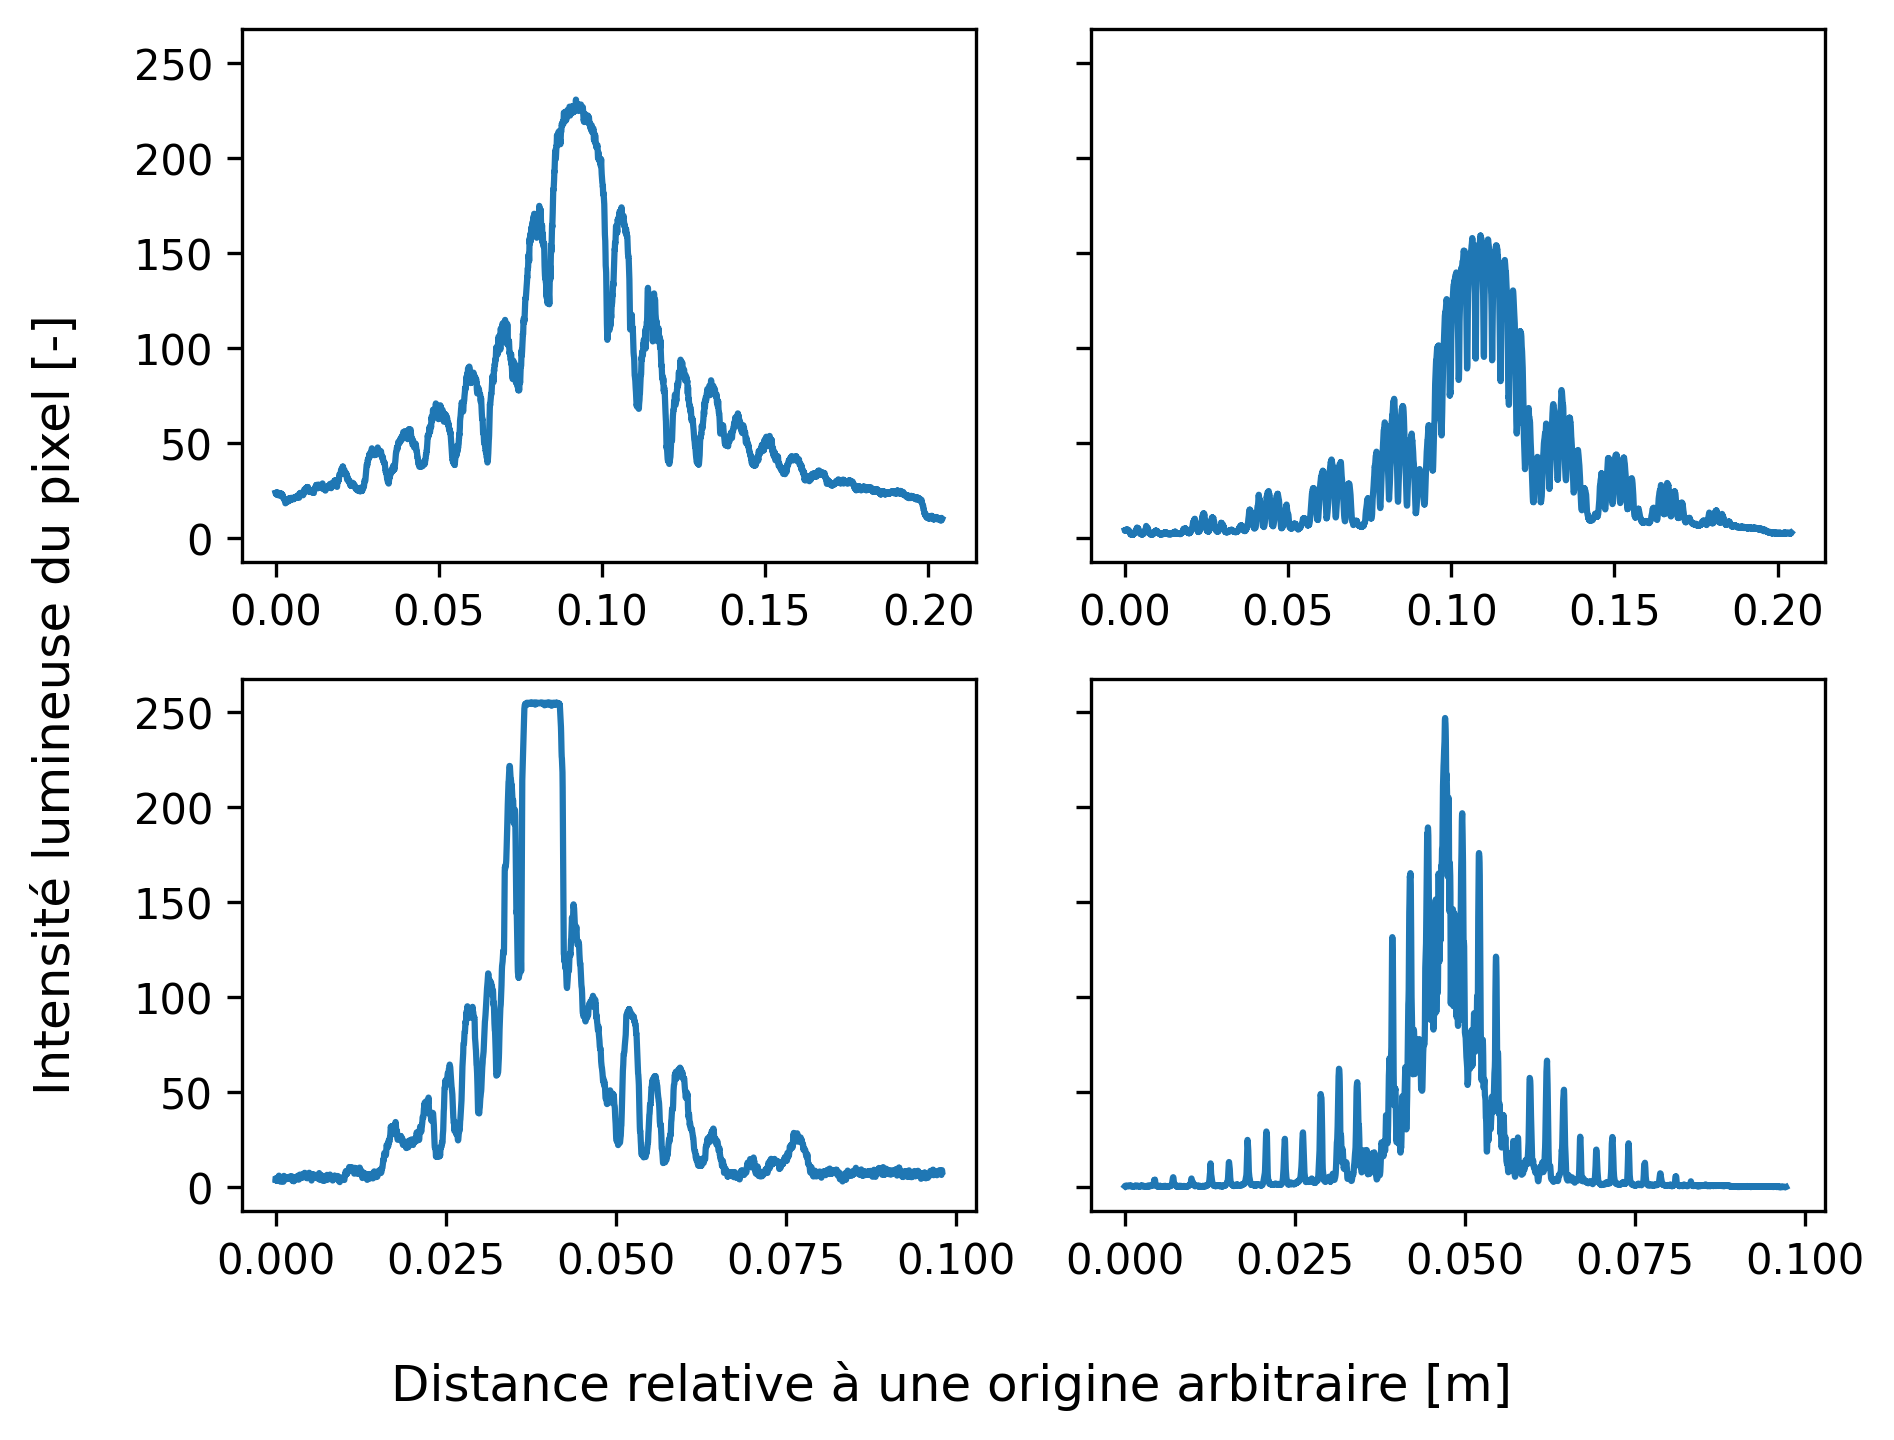
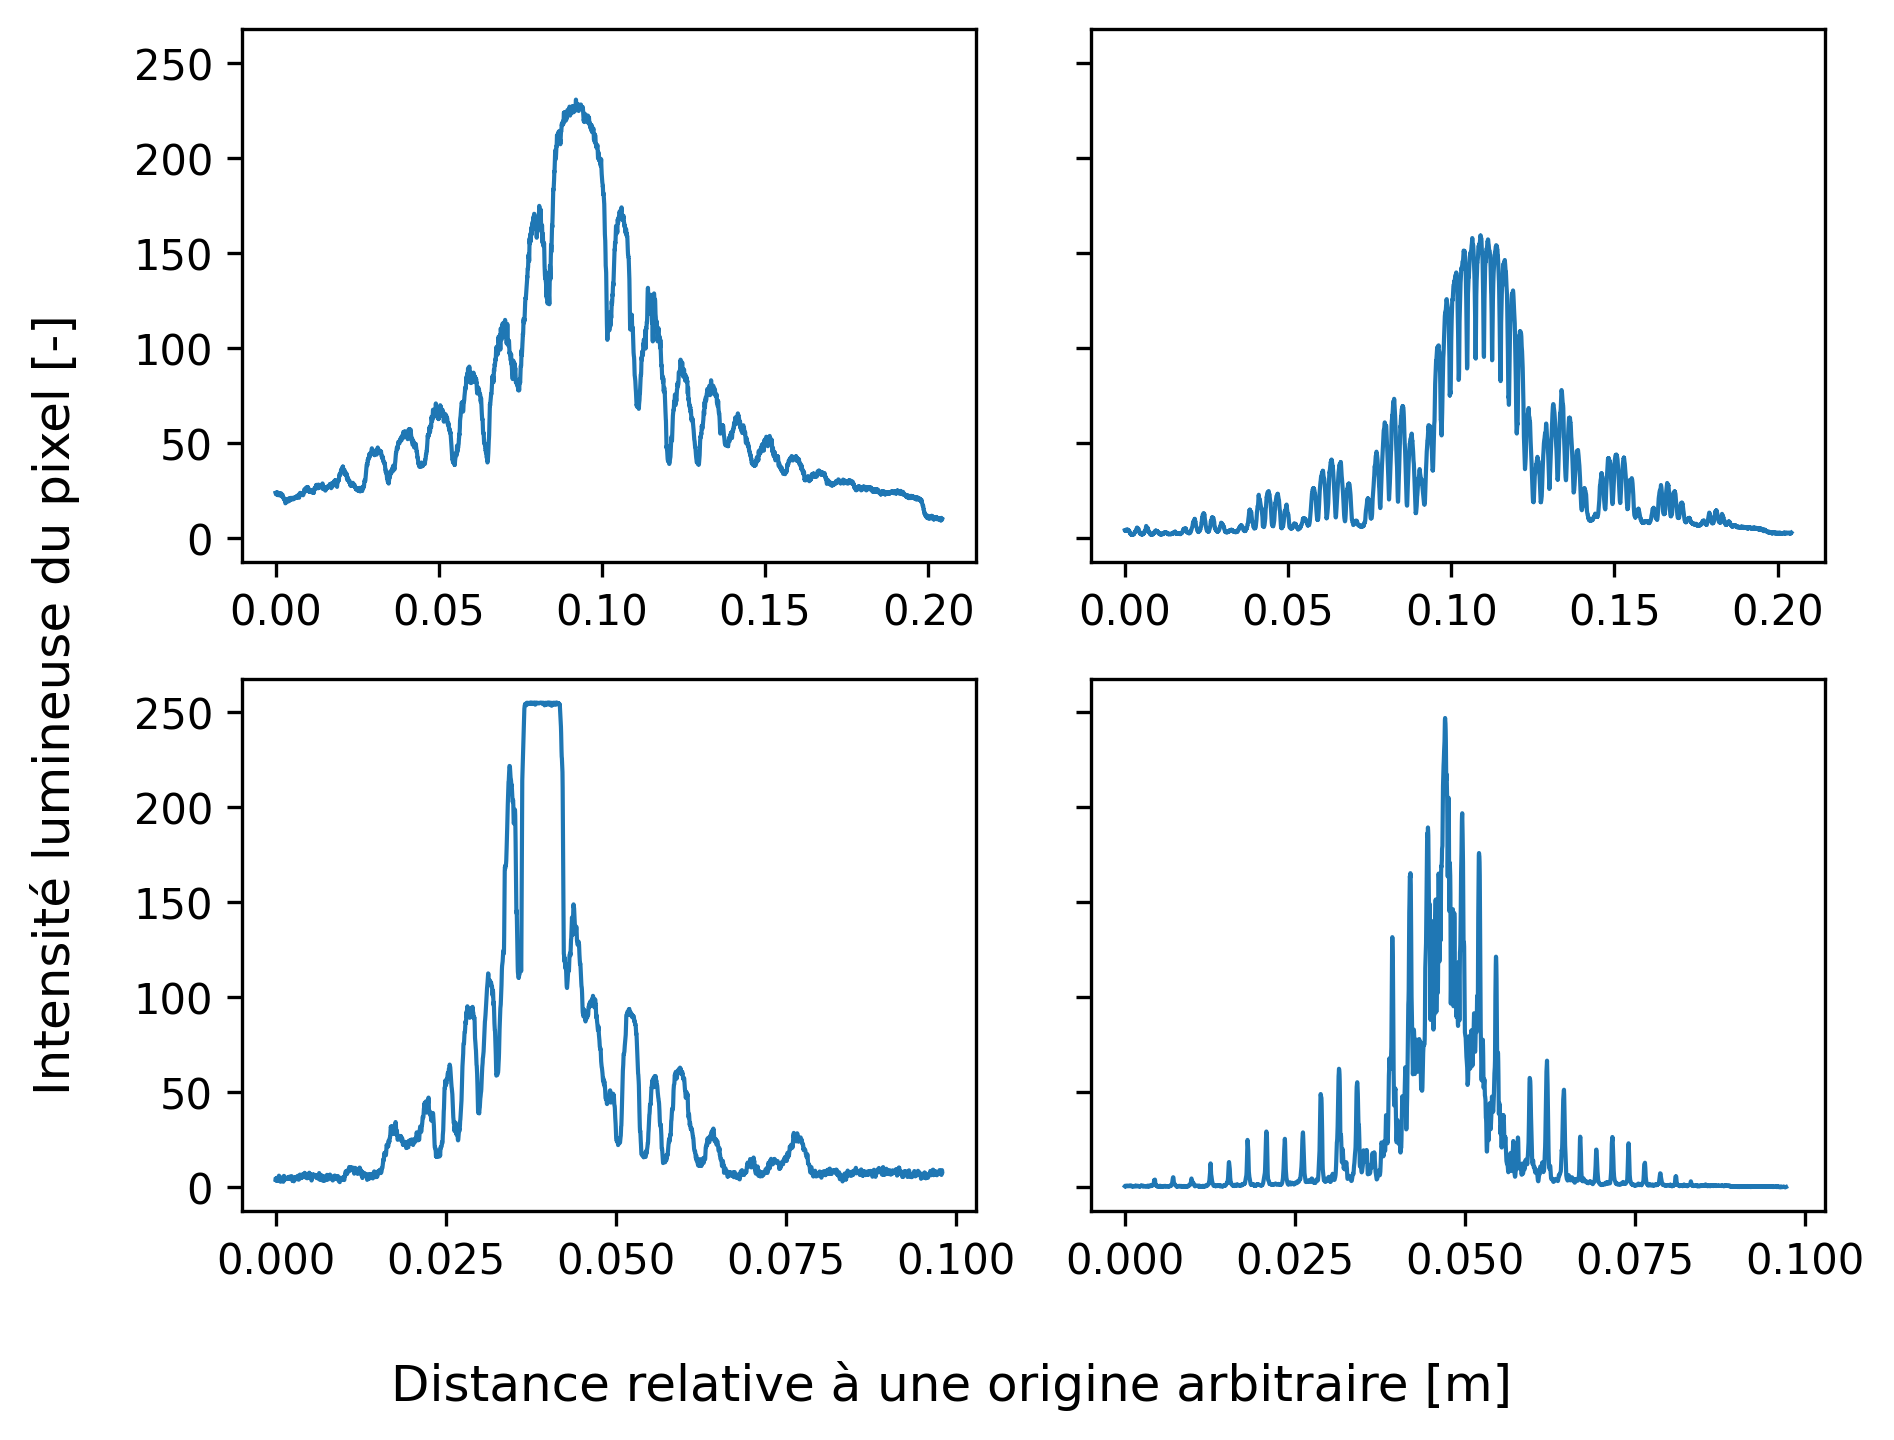
reduced linewidth

diff --git a/FFT copy.py b/FFT copy.py
@@ -65,7 +65,7 @@ def find_valleys_from_guess():
         array = df.to_numpy()
         if experience_type == "cer_3":
             array = array[:3500, :]
-        axes[position].plot(array[:, 0]*M_PER_PIXEL, array[:, 1])
+        axes[position].plot(array[:, 0]*M_PER_PIXEL, array[:, 1], linewidth=1)
         # plt.plot(array[:, 0], array[:, 1])
         # critical_points = []
         # for guess in guess_dict[experience_type]:
